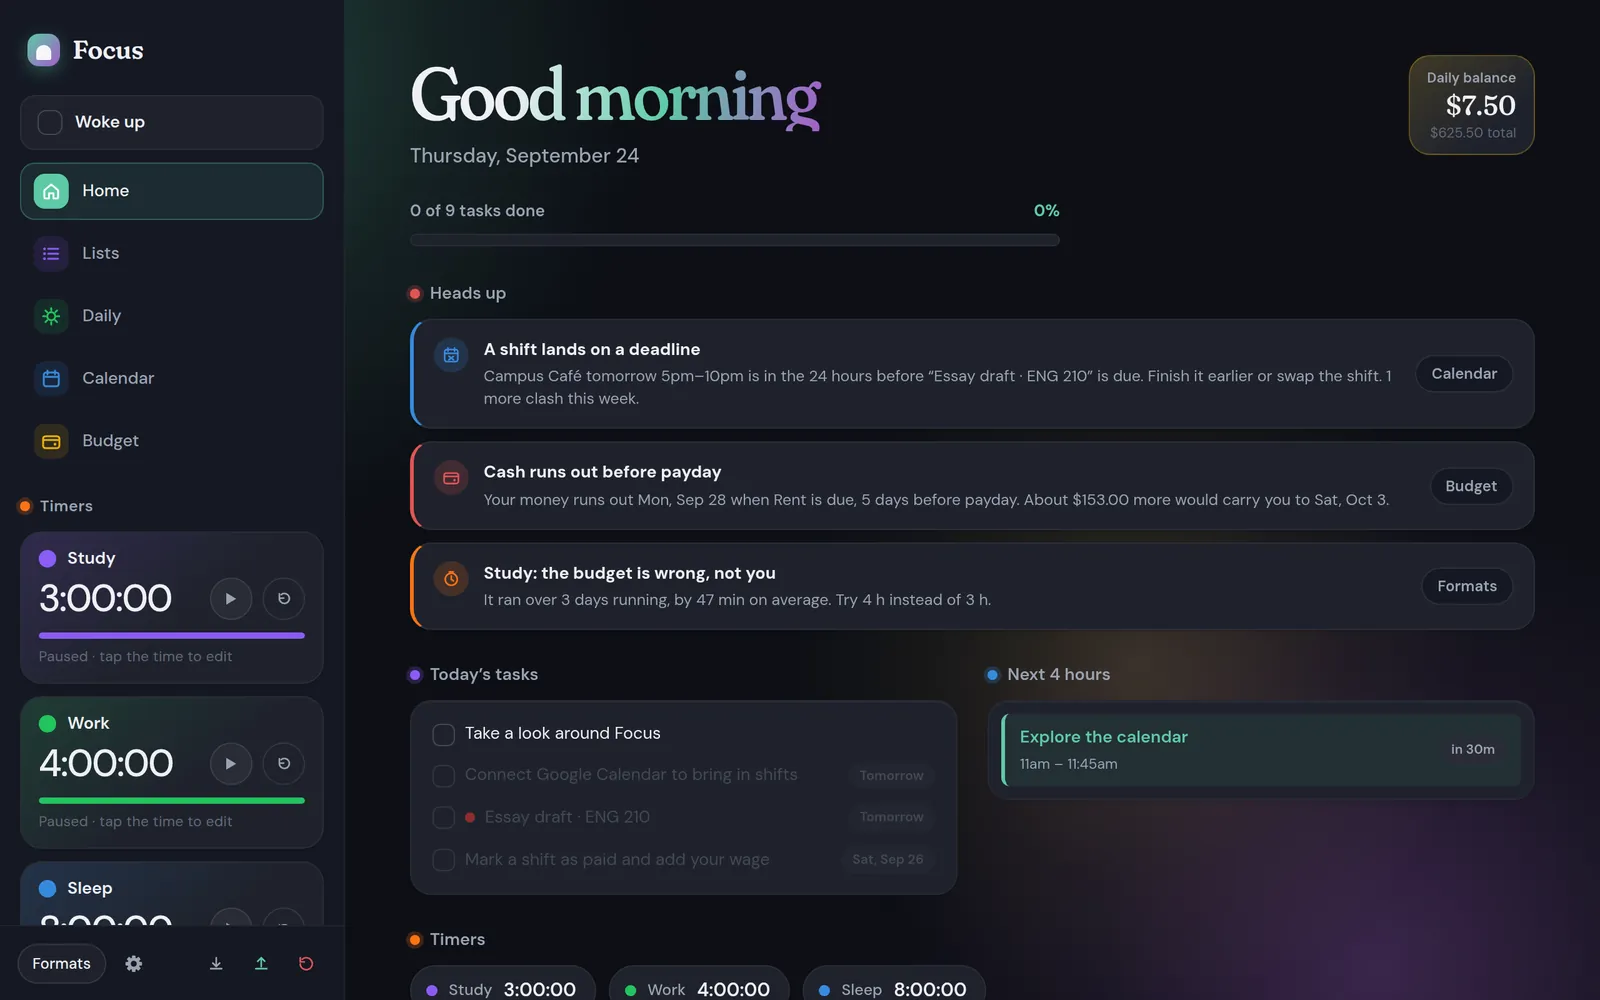
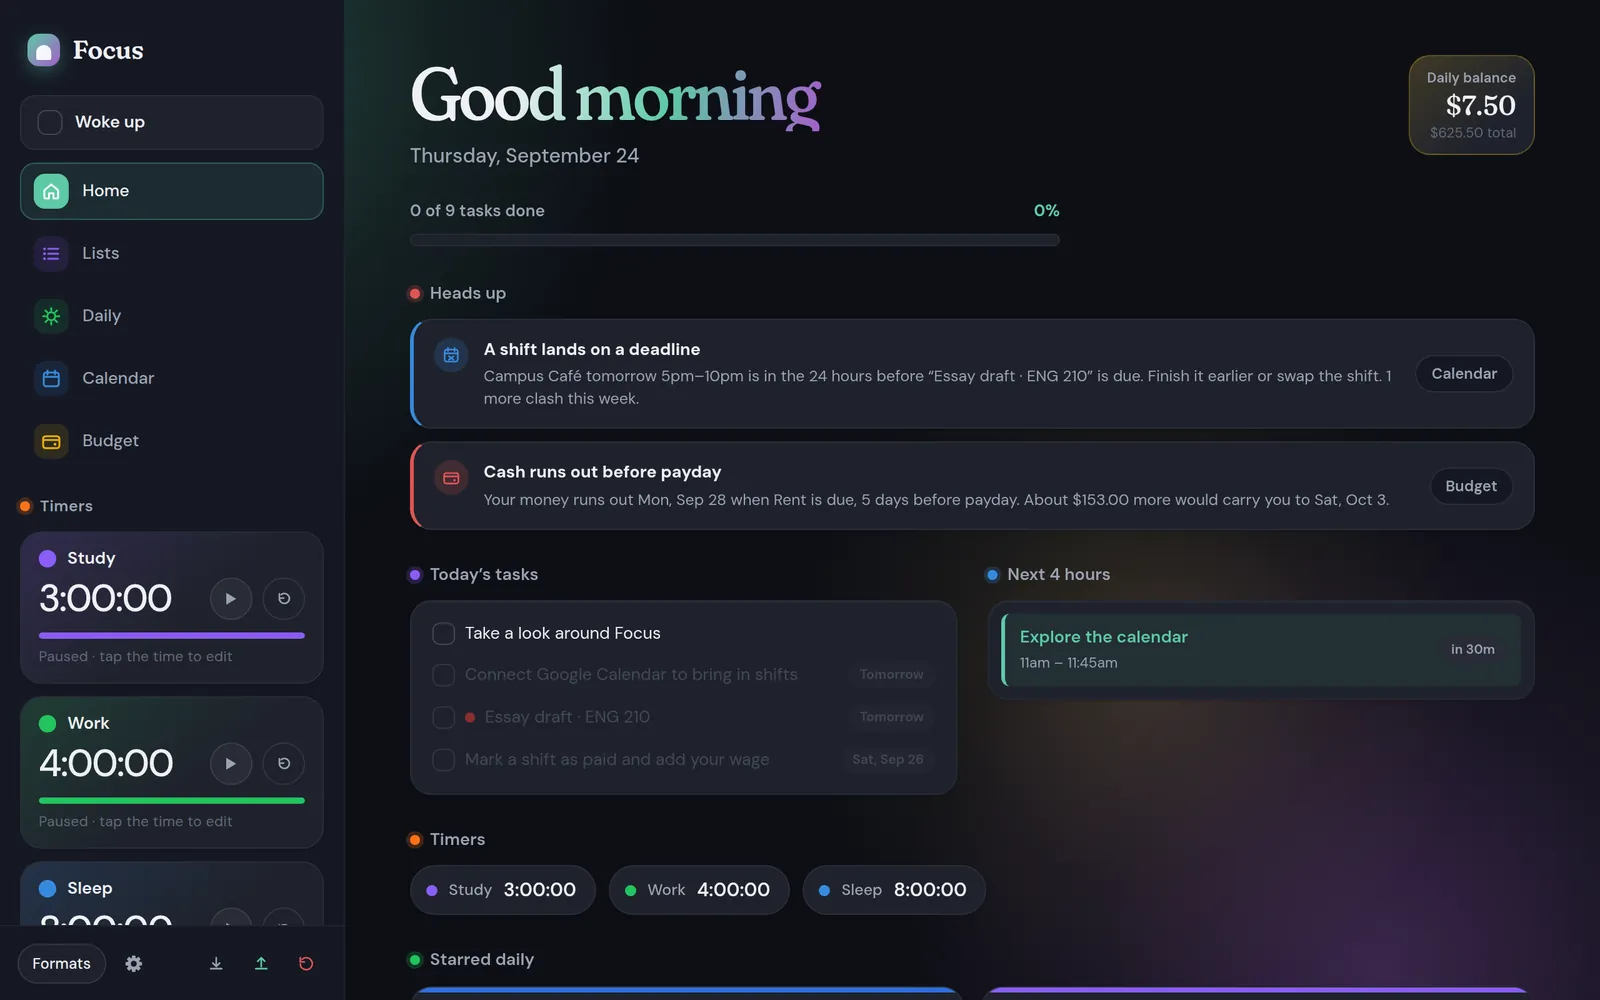
Help: timers stop at zero, and Heads up has two cards
The Timers how-to said a timer passing zero keeps counting in red; it now
says a timer stops at zero and how to run it again. Heads up lists its two
cards, and the sync list and privacy policy say "timers" instead of "timers
and their history" (that history was the overrun log). The Home, phone Home
and phone Timers pictures are retaken to match (Study running with 1:47:26
left instead of 12:34 over), with their alt text. ROADMAP notes why the
third card was dropped.

Claude-Session: https://claude.ai/code/session_01ADDt4Uf4zfWv1buQXnD1mL

diff --git a/help/index.html b/help/index.html
@@ -132,7 +132,7 @@
         <li><strong>The tour</strong> walks through every section one step at a time. Replay it from <strong>Settings → Help → Take the tour</strong>.</li>
       </ul>
       <figure>
-        <img src="img/home.webp" width="800" height="500" alt="Focus on a computer: the sidebar with Woke up, the pages and the timers; Home with Good morning, a daily balance of $7.50, three Heads up cards, today's tasks and the next four hours.">
+        <img src="img/home.webp" width="800" height="500" alt="Focus on a computer: the sidebar with Woke up, the pages and the timers; Home with Good morning, a daily balance of $7.50, two Heads up cards, today's tasks and the next four hours.">
         <figcaption>Home on a computer, with a sample week of shifts, deadlines and bills.</figcaption>
       </figure>
     </section>
@@ -140,15 +140,14 @@
     <section id="home">
       <h2>Home and Heads up</h2>
       <p>Home gathers today in one place: how many of today's tasks are done, the tasks due today, what's on the calendar in the next four hours, your timers, and today's balance from the budget.</p>
-      <p><strong>Heads up</strong> cards appear only when something needs you, and each has a button that goes straight to where you fix it. Focus works these out from your own shifts, deadlines, cash and timers, on your device.</p>
+      <p><strong>Heads up</strong> cards appear only when something needs you, and each has a button that goes straight to where you fix it. Focus works these out from your own shifts, deadlines and cash, on your device.</p>
       <ul>
         <li><strong>A shift lands on a deadline:</strong> a paid shift in the next week falls in the 24 hours before something on your <strong>Deadlines</strong> list is due. Deadlines count as due at the end of their day.</li>
         <li><strong>Cash runs out before payday:</strong> your <a href="#budget">cash runway</a> says the money ends before your next paycheck arrives, and roughly how much more would carry you to payday.</li>
-        <li><strong>The budget is wrong, not you:</strong> a timer ran over its time three days running. Focus suggests a longer time: the old one plus the average overrun, rounded up to a quarter hour.</li>
       </ul>
       <div class="phones">
         <figure>
-          <img src="img/phone-home.webp" width="390" height="844" loading="lazy" alt="Home on a phone with three Heads up cards: A shift lands on a deadline, Cash runs out before payday, and Study: the budget is wrong, not you.">
+          <img src="img/phone-home.webp" width="390" height="844" loading="lazy" alt="Home on a phone with two Heads up cards: A shift lands on a deadline, and Cash runs out before payday.">
           <figcaption>Heads up on a phone.</figcaption>
         </figure>
       </div>
@@ -159,14 +158,14 @@
       <p>Each timer is a time budget for something that matters today, like Study or Work.</p>
       <ul>
         <li>Press <strong>play</strong> to start and <strong>pause</strong> to stop. Tap the time to change it; the circular arrow resets that timer.</li>
-        <li>When a timer passes zero it keeps counting in red, for example <strong>+12:34 Over budget</strong>, so you see how far over you went.</li>
+        <li>A timer stops when it reaches zero. To run it again, reset it or tap the time and type a new one.</li>
         <li>Tick <strong>Woke up</strong> when you get up: Focus then shows how much timer time is left today and when you'd finish if you ran the timers back to back.</li>
         <li>Which timers exist and how long each runs are set in <a href="#formats">Formats</a>.</li>
       </ul>
       <div class="phones">
         <figure>
-          <img src="img/phone-timers.webp" width="390" height="844" loading="lazy" alt="The Timers page on a phone: Study is running and 12 minutes 34 seconds over budget in red; Work shows 4:00:00 and Sleep 8:00:00, paused.">
-          <figcaption>Study, running and over its time.</figcaption>
+          <img src="img/phone-timers.webp" width="390" height="844" loading="lazy" alt="The Timers page on a phone: Study is running with 1 hour 47 minutes left; Work shows 4:00:00 and Sleep 8:00:00, paused.">
+          <figcaption>Study, running.</figcaption>
         </figure>
       </div>
     </section>
@@ -305,7 +304,7 @@
         <figcaption>The one question on a second device.</figcaption>
       </figure>
       <ul>
-        <li><strong>What syncs:</strong> timers and their history, lists and tasks, Daily routines, the calendar and its weekly blocks, shifts and wages, the budget, payday and bills, your theme and which sections show, and the email digest with its GitHub token for Run now.</li>
+        <li><strong>What syncs:</strong> timers, lists and tasks, Daily routines, the calendar and its weekly blocks, shifts and wages, the budget, payday and bills, your theme and which sections show, and the email digest with its GitHub token for Run now.</li>
         <li><strong>What stays on each device:</strong> the Google Calendar connection and bank connections.</li>
         <li>While <a href="#formats">Formats</a> is open, sync waits until you press Done.</li>
         <li><strong>Sign out</strong> in the same place. Your data stays on the device and in the cloud.</li>
@@ -406,11 +405,11 @@ node -e "console.log(require('crypto').randomBytes(32).toString('base64'))"</cod
 
     <section id="privacy">
       <h2>Privacy policy</h2>
-      <p class="updated">Last updated: September 28, 2026</p>
+      <p class="updated">Last updated: September 29, 2026</p>
       <p>This policy explains what data Focus (also called Worky) touches and what happens to it. The short version: your data stays yours, on your device and, if you turn on sync, in your own cloud account. It is used only to show you your own information. Nothing is sold, and there are no ads or analytics.</p>
 
       <h3>Data stored in the app</h3>
-      <p>Your tasks, lists, timers and their history, calendar entries, shifts and wages, budget, payday and bills, theme and settings are stored in your browser's local storage on each device you use. Focus has no contacts or address book and doesn't ask for anyone else's information: it stores dates, amounts and the text you type.</p>
+      <p>Your tasks, lists, timers, calendar entries, shifts and wages, budget, payday and bills, theme and settings are stored in your browser's local storage on each device you use. Focus has no contacts or address book and doesn't ask for anyone else's information: it stores dates, amounts and the text you type.</p>
 
       <h3>Cloud sync and Google sign-in</h3>
       <p>If you sign in with Google to turn on sync, the same data is also stored in a Firebase Realtime Database (operated by Google) under your account, so your other devices can read it. The database rules allow access only to the signed-in account that owns it. Sign-in uses Firebase Authentication with your Google account: Focus receives your Google account identifier, email address and basic profile (name and picture) to connect your synced data to you. It never receives your password.</p>

diff --git a/docs/ROADMAP.md b/docs/ROADMAP.md
@@ -46,7 +46,7 @@ Every generic direction we tested (modes, a customizable insights feed, the emai
 | 12 | Optional: MCP `add_insight` write tool |
 | 15–16 | Pitch practice, public demo (Week 14 is Thanksgiving) |
 
-The three insight cards: a shift collides with a deadline; days of cash until the next paycheck; a timer you overrun three days running means the budget is wrong, not you. Each is computed from data only Focus holds, so each can be evaluated.
+The insight cards: a shift collides with a deadline; days of cash until the next paycheck. Each is computed from data only Focus holds, so each can be evaluated. (A third, "a timer you overrun three days running means the budget is wrong, not you", was dropped when timers went back to stopping at zero: with no overrun there is nothing to measure.)
 
 ## Before teammates touch the code
 
